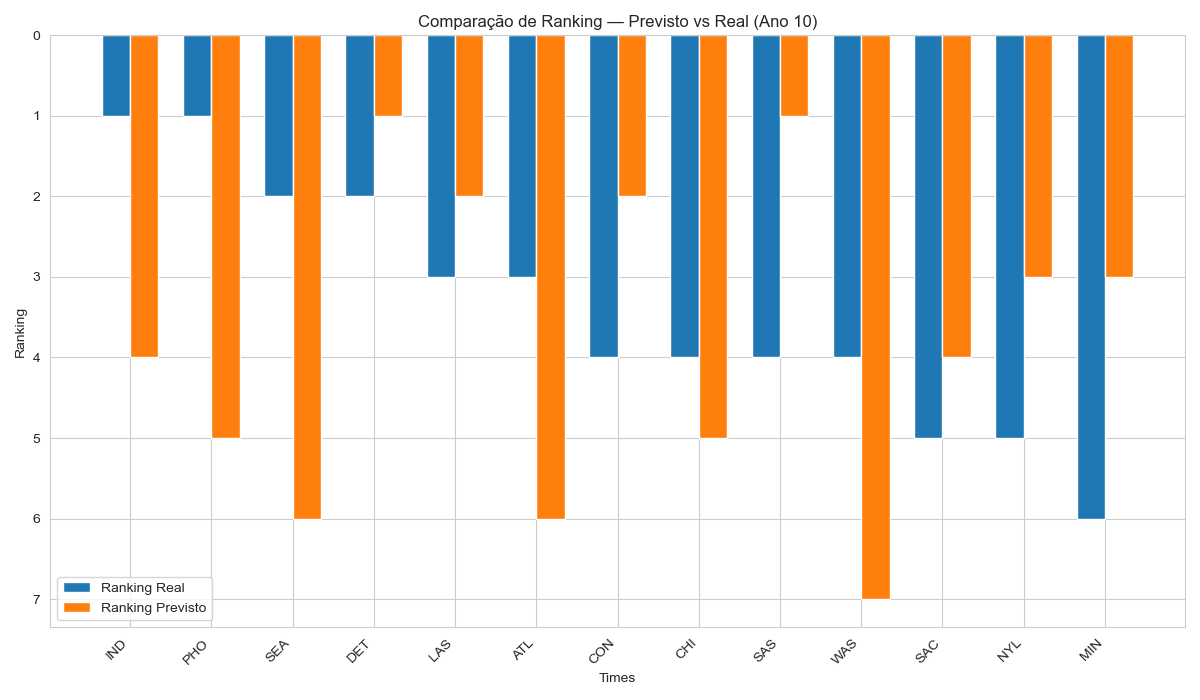
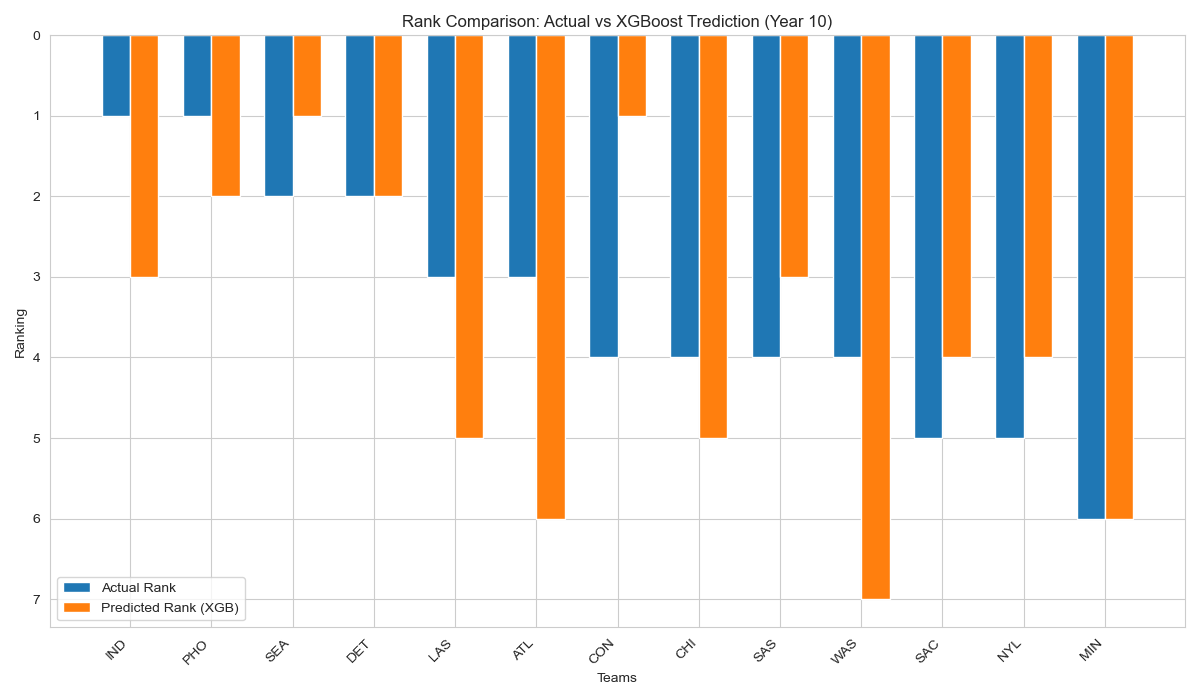
rankings improved

diff --git a/rankings.py b/rankings.py
@@ -7,8 +7,8 @@ import numpy as np
 import os
 import matplotlib.pyplot as plt
 import seaborn as sns
-from sklearn.ensemble import RandomForestRegressor
 from sklearn.metrics import mean_absolute_error, r2_score
+from xgboost import XGBRegressor
 
 #Setup
 sns.set_style("whitegrid")
@@ -21,11 +21,16 @@ os.makedirs(plot_dir, exist_ok=True)
 # STEP 3.1: LOAD DATA
 # =========================================================
 data_path = "data/cleaned/full_dataset_prepared.csv"
+teams_path = "data/teams.csv"
+
 if not os.path.exists(data_path):
     raise FileNotFoundError(f"Dataset not found at {data_path}")
 
 df = pd.read_csv(data_path)
-print(f"Loaded dataset with shape: {df.shape}")
+teams_df_raw = pd.read_csv(teams_path)
+
+print(f"Loaded player data: {df.shape}")
+print(f"Loaded teams dats: {teams_df_raw.shape}")
 
 # Ensure we handle the conference column name correctly
 if 'confID' not in df.columns:
@@ -39,52 +44,59 @@ else:
 df['conference'] = df['conference'].fillna('Unknown')
 
 # =========================================================
-# STEP 3.2: PLAYER-LEVEL ROSTER COMPOSITION
+# STEP 3.2: FEATURE ENGINNERING - PYTHAGOREAN EXPECTATION
 # =========================================================
-# Logic: % of minutes played in Year N-1 by players who returned in Year N.
-print("Calculating Roster Composition metrics...")
+print("Calculating Pythagorean Expectation...")
+
+teams_df_raw['pythag_win_pct'] = (teams_df_raw['o_pts']**13.91) / (teams_df_raw['o_pts']**13.91 + teams_df_raw['d_pts']**13.91)
+
+teams_df_raw['next_year'] = teams_df_raw['year'] + 1
+pythag_features = teams_df_raw[['tmID', 'next_year', 'pythag_win_pct']].rename(columns={'next_year': 'year', 'pythag_win_pct': 'prev_pythag_expectation'})
+
+# =========================================================
+# STEP 3.3: WEIGHTED ROSTER CONTINUITY
+# =========================================================
+print("Calculating Weighted Roster Continuity (Efficiency Returning)...")
 
 player_stats_cols = ['playerID', 'year', 'minutes', 'points', 'win_pct', 'efficiency']
 if 'efficiency' not in df.columns:
     df['efficiency'] = df['points'] + df['rebounds'] + df['assists'] + df['steals'] + df['blocks'] - df['turnovers']
 
-    player_history = df[player_stats_cols].copy()
-    player_history['next_year'] = player_history['year'] + 1
+team_total_eff = df.groupby(['tmID', 'year'])['efficiency'].sum().reset_index(name='team_total_efficiency')
 
-    player_history = player_history.rename(columns={
-        'minutes': 'prev_min',
-        'points': 'prev_pts',
-        'win_pct': 'prev_player_win_pct',
-        'efficiency': 'prev_eff',
-        'year': 'prev_year'
-    })
+player_stats_cols = ['playerID', 'year', 'minutes', 'points', 'win_pct', 'efficiency']
+player_history = df[player_stats_cols].copy()
+player_history['next_year'] = player_history['year'] + 1
+player_history = player_history.rename(columns={
+    'minutes': 'prev_min',
+    'points': 'prev_pts',
+    'win_pct': 'prev_player_win_pct',
+    'efficiency': 'prev_player_eff',
+    'year': 'prev_year'
+})
 
-    df_roster = df[['year', 'tmID', 'playerID']].merge(
-        player_history,
-        left_on=['playerID', 'year'],
-        right_on=['playerID', 'next_year'],
-        how='left'
-    )
+df_roster = df[['year', 'tmID', 'playerID']].merge(
+    player_history,
+    left_on=['playerID', 'year'],
+    right_on=['playerID', 'next_year'],
+    how='left'
+)
 
-    df_roster = df_roster.fillna(0)
+roster_continuity_agg = df_roster.groupby(['year', 'tmID'])['prev_player_eff'].sum().reset_index(name='returning_efficiency_total')
 
-    roster_features = df_roster.groupby(['year', 'tmID']).agg({
-        'prev_min': 'sum',
-        'prev_pts': 'sum',
-        'prev_eff': 'mean',
-        'prev_player_win_pct': 'mean'
-    }).reset_index()
+team_total_eff['next_year'] = team_total_eff['year'] + 1
+prev_team_totals = team_total_eff[['tmID', 'next_year', 'team_total_efficiency']].rename(columns={'next_year': 'year', 'team_total_efficiency': 'prev_year_team_total_eff'})
 
-    roster_features['roster_continuity'] = roster_features['prev_min'] / 6800
-    roster_features['roster_continuity'] = roster_features['roster_continuity'].clip(0, 1)
+roster_features = roster_continuity_agg.merge(prev_team_totals, on=['year', 'tmID'], how='left')
+roster_features['weighted_continuity'] = roster_features['returning_efficiency_total'] / roster_features['prev_year_team_total_eff']
 
-    print("Roster features calculated")
+roster_features['weighted_continuity'] = roster_features['weighted_continuity'].fillna(0).clip(0, 1.5)
+
+print("Weighted continuity calculated")
 
 # =========================================================
-# STEP 3.3: TEAM-LEVEL AGGREGATION & SOS
+# STEP 3.4: TEAM-LEVEL AGGREGATION & FINAL MERGE
 # =========================================================
-# Aggregating metrics. We include 'rolling_win_pct' here (Momentum)
-# Note: 'rolling_win_pct' is likely same for all players on team, so we take max or mean
 team_df = df.groupby(['year', 'tmID', 'conference'], as_index=False).agg({
     'points': 'sum',
     'fgMade': 'sum',
@@ -107,23 +119,27 @@ conf_strength.rename(columns={'win_pct': 'prev_conf_strength'}, inplace=True)
 team_df = team_df.merge(conf_strength, on=['year', 'conference'], how='left')
 team_df['prev_conf_strength'] = team_df['prev_conf_strength'].fillna(0.5)
 
-# =========================================================
-# STEP 3.4: MERGE AND FINALIZE FEATURES
-# =========================================================
-
-# Features to LAG (History determines future)
 lag_cols = ['points','shooting_efficiency', 'def_impact', 'win_pct']
 for col in lag_cols:
     team_df[f'team_lag_{col}'] = team_df.groupby('tmID')[col].shift(1)
 
-model_df = team_df.merge(roster_features, on=['year', 'tmID'], how='left')
+model_df = team_df.merge(pythag_features, on=['tmID', 'year'], how='left')
+model_df = model_df.merge(roster_features[['year', 'tmID', 'weighted_continuity']], on=['year', 'tmID'], how='left')
 
-# Drop rows missing history (Year 1)
 model_df = model_df.dropna(subset=[f'team_lag_{col}' for col in lag_cols])
 
+model_df['prev_pythag_expectation'] = model_df['prev_pythag_expectation'].fillna(model_df['team_lag_win_pct'])
+model_df['weighted_continuity'] = model_df['weighted_continuity'].fillna(0.5)
+
+# =========================================================
+# STEP 3.5: MODEL TRAINING (XGBOOST)
+# =========================================================
 features = [
-    'team_lag_win_pct', 'team_lag_points', 'team_lag_def_impact',
-    'roster_continuity', 'prev_pts', 'prev_eff', 'prev_player_win_pct',
+    'prev_pythag_expectation',
+    'team_lag_points',
+    'team_lag_def_impact',
+    'team_lag_shooting_efficiency',
+    'weighted_continuity',
     'prev_conf_strength'
 ]
 
@@ -131,18 +147,25 @@ target = 'win_pct'
 
 print(f"\nFinal Dataset: {len(model_df)} rows. Features selected:")
 print(features)
-# =========================================================
-# STEP 3.5: MODEL TRAINING
-# =========================================================
+
 train_df = model_df[model_df['year'] < 10]
 test_df = model_df[model_df['year'] == 10].copy()
 
-print(f"Training Ranking Model with {len(features)} features...")
+print(f"Training XGBoost Model...")
 
-rf = RandomForestRegressor(n_estimators=500, max_depth=8, random_state=42)
-rf.fit(train_df[features], train_df[target])
+model = XGBRegressor(
+    n_estimators=500,
+    learning_rate = 0.05,
+    max_depth=4,
+    subsample=0.8,
+    colsample_bytree=0.8,
+    random_state=42,
+    n_jobs=1
+)
 
-test_df['raw_pred_win_pct'] = rf.predict(test_df[features])
+model.fit(train_df[features], train_df[target])
+
+test_df['raw_pred_win_pct'] = model.predict(test_df[features])
 
 for conf in test_df['conference'].unique():
     conf_mask = test_df['conference'] == conf
@@ -158,14 +181,13 @@ print(f"Mean Absolute Error: {mae:.4f}")
 print(f"R2 Score: {r2:.4f}")
 
 # =========================================================
-# STEP 3.6: OUTPUTS & VISUALIZATION
+# STEP 3.6: OUTPUTS 
 # =========================================================
 test_df['pred_rank'] = test_df.groupby('conference')['predicted_win_pct'].rank(ascending=False, method='dense')
 test_df['actual_rank'] = test_df.groupby('conference')['win_pct'].rank(ascending=False, method='dense')
-
 test_df['predicted_wins'] = (test_df['predicted_win_pct'] * 34).round(0).astype(int)
 
-output = test_df[['conference', 'tmID', 'predicted_wins', 'win_pct', 'pred_rank', 'actual_rank']]
+output = test_df[['conference', 'tmID', 'predicted_wins', 'win_pct', 'pred_rank', 'actual_rank', 'prev_pythag_expectation', 'weighted_continuity']]
 output = output.sort_values(['conference', 'pred_rank'])
 
 print("\nPredicted Season 10 Rankings:")
@@ -199,12 +221,12 @@ print(f" Saved accuracy plot to {plot_dir}/season10_pred_vs_actual.png")
 # 2. Feature Importance
 importances = pd.DataFrame({
     'Feature': features,
-    'Importance': rf.feature_importances_
+    'Importance': model.feature_importances_
 }).sort_values(by='Importance', ascending=False)
 
 plt.figure(figsize=(10,6))
 sns.barplot(x='Importance', y='Feature', data=importances, palette='magma')
-plt.title('Drivers of Team Success (New Features Added)')
+plt.title('Drivers of Team Success (XGBoost)')
 plt.tight_layout()
 plt.savefig(f"{plot_dir}/ranking_feature_importance.png")
 plt.close()
@@ -220,16 +242,15 @@ bar_df = test_df.sort_values("actual_rank")
 x = np.arange(len(bar_df))
 width = 0.35
 
-plt.bar(x - width/2, bar_df["actual_rank"], width, label="Ranking Real")
-plt.bar(x + width/2, bar_df["pred_rank"], width, label="Ranking Previsto")
+plt.bar(x - width/2, bar_df["actual_rank"], width, label="Actual Rank")
+plt.bar(x + width/2, bar_df["pred_rank"], width, label="Predicted Rank (XGB)")
 
 plt.xticks(x, bar_df["tmID"], rotation=45, ha='right')
-plt.xlabel("Times")
+plt.xlabel("Teams")
 plt.ylabel("Ranking")
-plt.title("Comparação de Ranking — Previsto vs Real (Ano 10)")
+plt.title("Rank Comparison: Actual vs XGBoost Trediction (Year 10)")
 plt.gca().invert_yaxis()  # ranking 1 como melhor (topo)
 plt.legend()
-
 plt.tight_layout()
 plt.savefig(f"{plot_dir}/season10_rank_barplot.png")
 plt.close()
